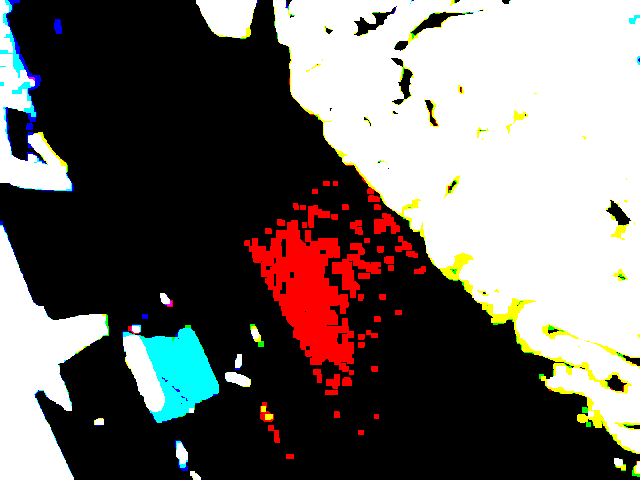
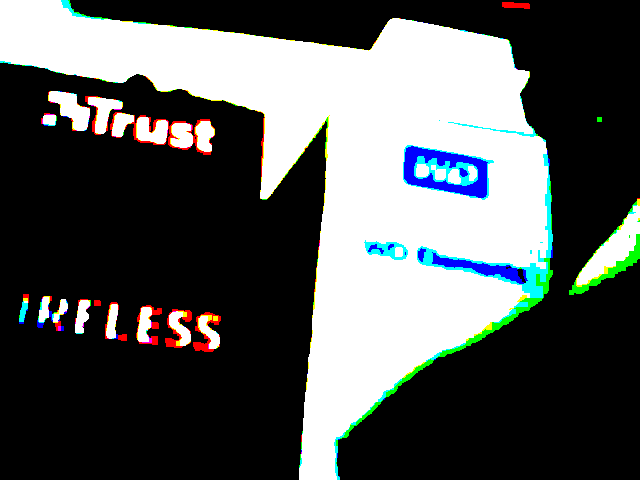
Bug_Fix 23: Video frame now working. Improved thresholding function

diff --git a/main_code.py b/main_code.py
@@ -139,14 +139,25 @@ def path_image(filename):
 #
 def thresholding(img):
 
+    lower_red1 = np.array([0,200,100], dtype = "uint8")
+    upper_red1 = np.array([5,255,255], dtype = "uint8")
+    lower_red2 = np.array([170,200,100], dtype = "uint8")
+    upper_red2 = np.array([179,255,255], dtype = "uint8")    
+    
     ret,thresh1 = cv2.threshold(img,157,255,cv2.THRESH_BINARY)
     kernel = np.ones((5,5),np.uint8)
     dilation = cv2.dilate(thresh1,kernel,iterations = 1)
     erosion = cv2.erode(dilation,kernel,iterations = 1)
     dilation = cv2.dilate(erosion,kernel,iterations = 1)
- #   opening = cv2.morphologyEx(erosion, cv2.MORPH_OPEN, kernel)
+    
+    mask_red1 = cv2.inRange(dilation, lower_red1, upper_red1)
+    mask_red2 = cv2.inRange(dilation, lower_red2, upper_red2)
+    mask_red = cv2.bitwise_or(mask_red1, mask_red2, mask = np.ones(np.shape(mask_red1)))
+    thresh_img = cv2.bitwise_and(img, img, mask = mask_red) 
 
-    return dilation
+#   opening = cv2.morphologyEx(erosion, cv2.MORPH_OPEN, kernel)
+
+    return thresh_img, dilation
 
 #
 # This function Detects the ROI and draws Rectangle
@@ -167,7 +178,7 @@ def thresholding(img):
 
 # press y three times to start recording pictures
 # press q to quit
-
+key="f"
 frame_cnt=0
 try:
     while(cap.isOpened()):
@@ -214,17 +225,11 @@ try:
                     print("Right Analog Pressed")
                 elif j.get_button(10):
                     print("PS Button Pressed")
-                    key='q'
+                    #key='q'
                 elif j.get_button(13):
                     print("Touchpad Pressed")                    
          
 
-#    key_pressed=cv2.waitKey(100) & 0xFF
-    
-#    if key_pressed != 255:
-        
-#        print(chr(key_pressed)) 
-#		print(np.shape(frame))
                 filename=fname_gen(key,frame)
                 print(filename)
         
@@ -232,42 +237,31 @@ try:
                     filenames.append(filename)
                     frames.append(frame1)
 #        save_image(frame,filename)
+
+        img_thresh1, img_thresh2 = thresholding(frame)
+        cv2.imshow('frame',img_thresh1)
+        cv2.imshow('test',img_thresh2)
+
+        key_pressed=cv2.waitKey(1) & 0xFF
     
-        if (key=='q'):
-            print('Mission Abort! Run')
-            break
+        if key_pressed != 255:
+            if (chr(key_pressed)=='q'):
+                print('Mission Abort! Run')
+                break
 
-#    cv2.imshow('frame',frame)
 
-        img_thresh=thresholding(frame)
-        cv2.imshow('frame',frame)
-        cv2.imshow('test',img_thresh)
         prev_pc=pc
    
-        if (break_flag_1==True):    
-            break
 
-# print(len(filenames))
-# print(np.shape(filenames))
-# print(len(frames))
-# print(np.shape(frames))
-
-    print(frames)            # Raspberry will send it to the server for processing. JSON format
+#    print(frames)            # Raspberry will send it to the server for processing. JSON format
     print(filenames)         # Raspberry will send it to the server for processing.  Json 
- 
-# Write a code to read these values in JSON format and do some basic processing like displaying the image
+
 
     for i in range(len(filenames)):
         img_thresh=thresholding(frames[i])
         save_image(img_thresh,filenames[i][0])
-
-
             
-            
-#            elif event.type == pygame.JOYBUTTONUP:
-#                print("Button Released")
-                
-
+       
 # This is it for server
 #img_thresh=np.zeros(np.shape(frame))
 
